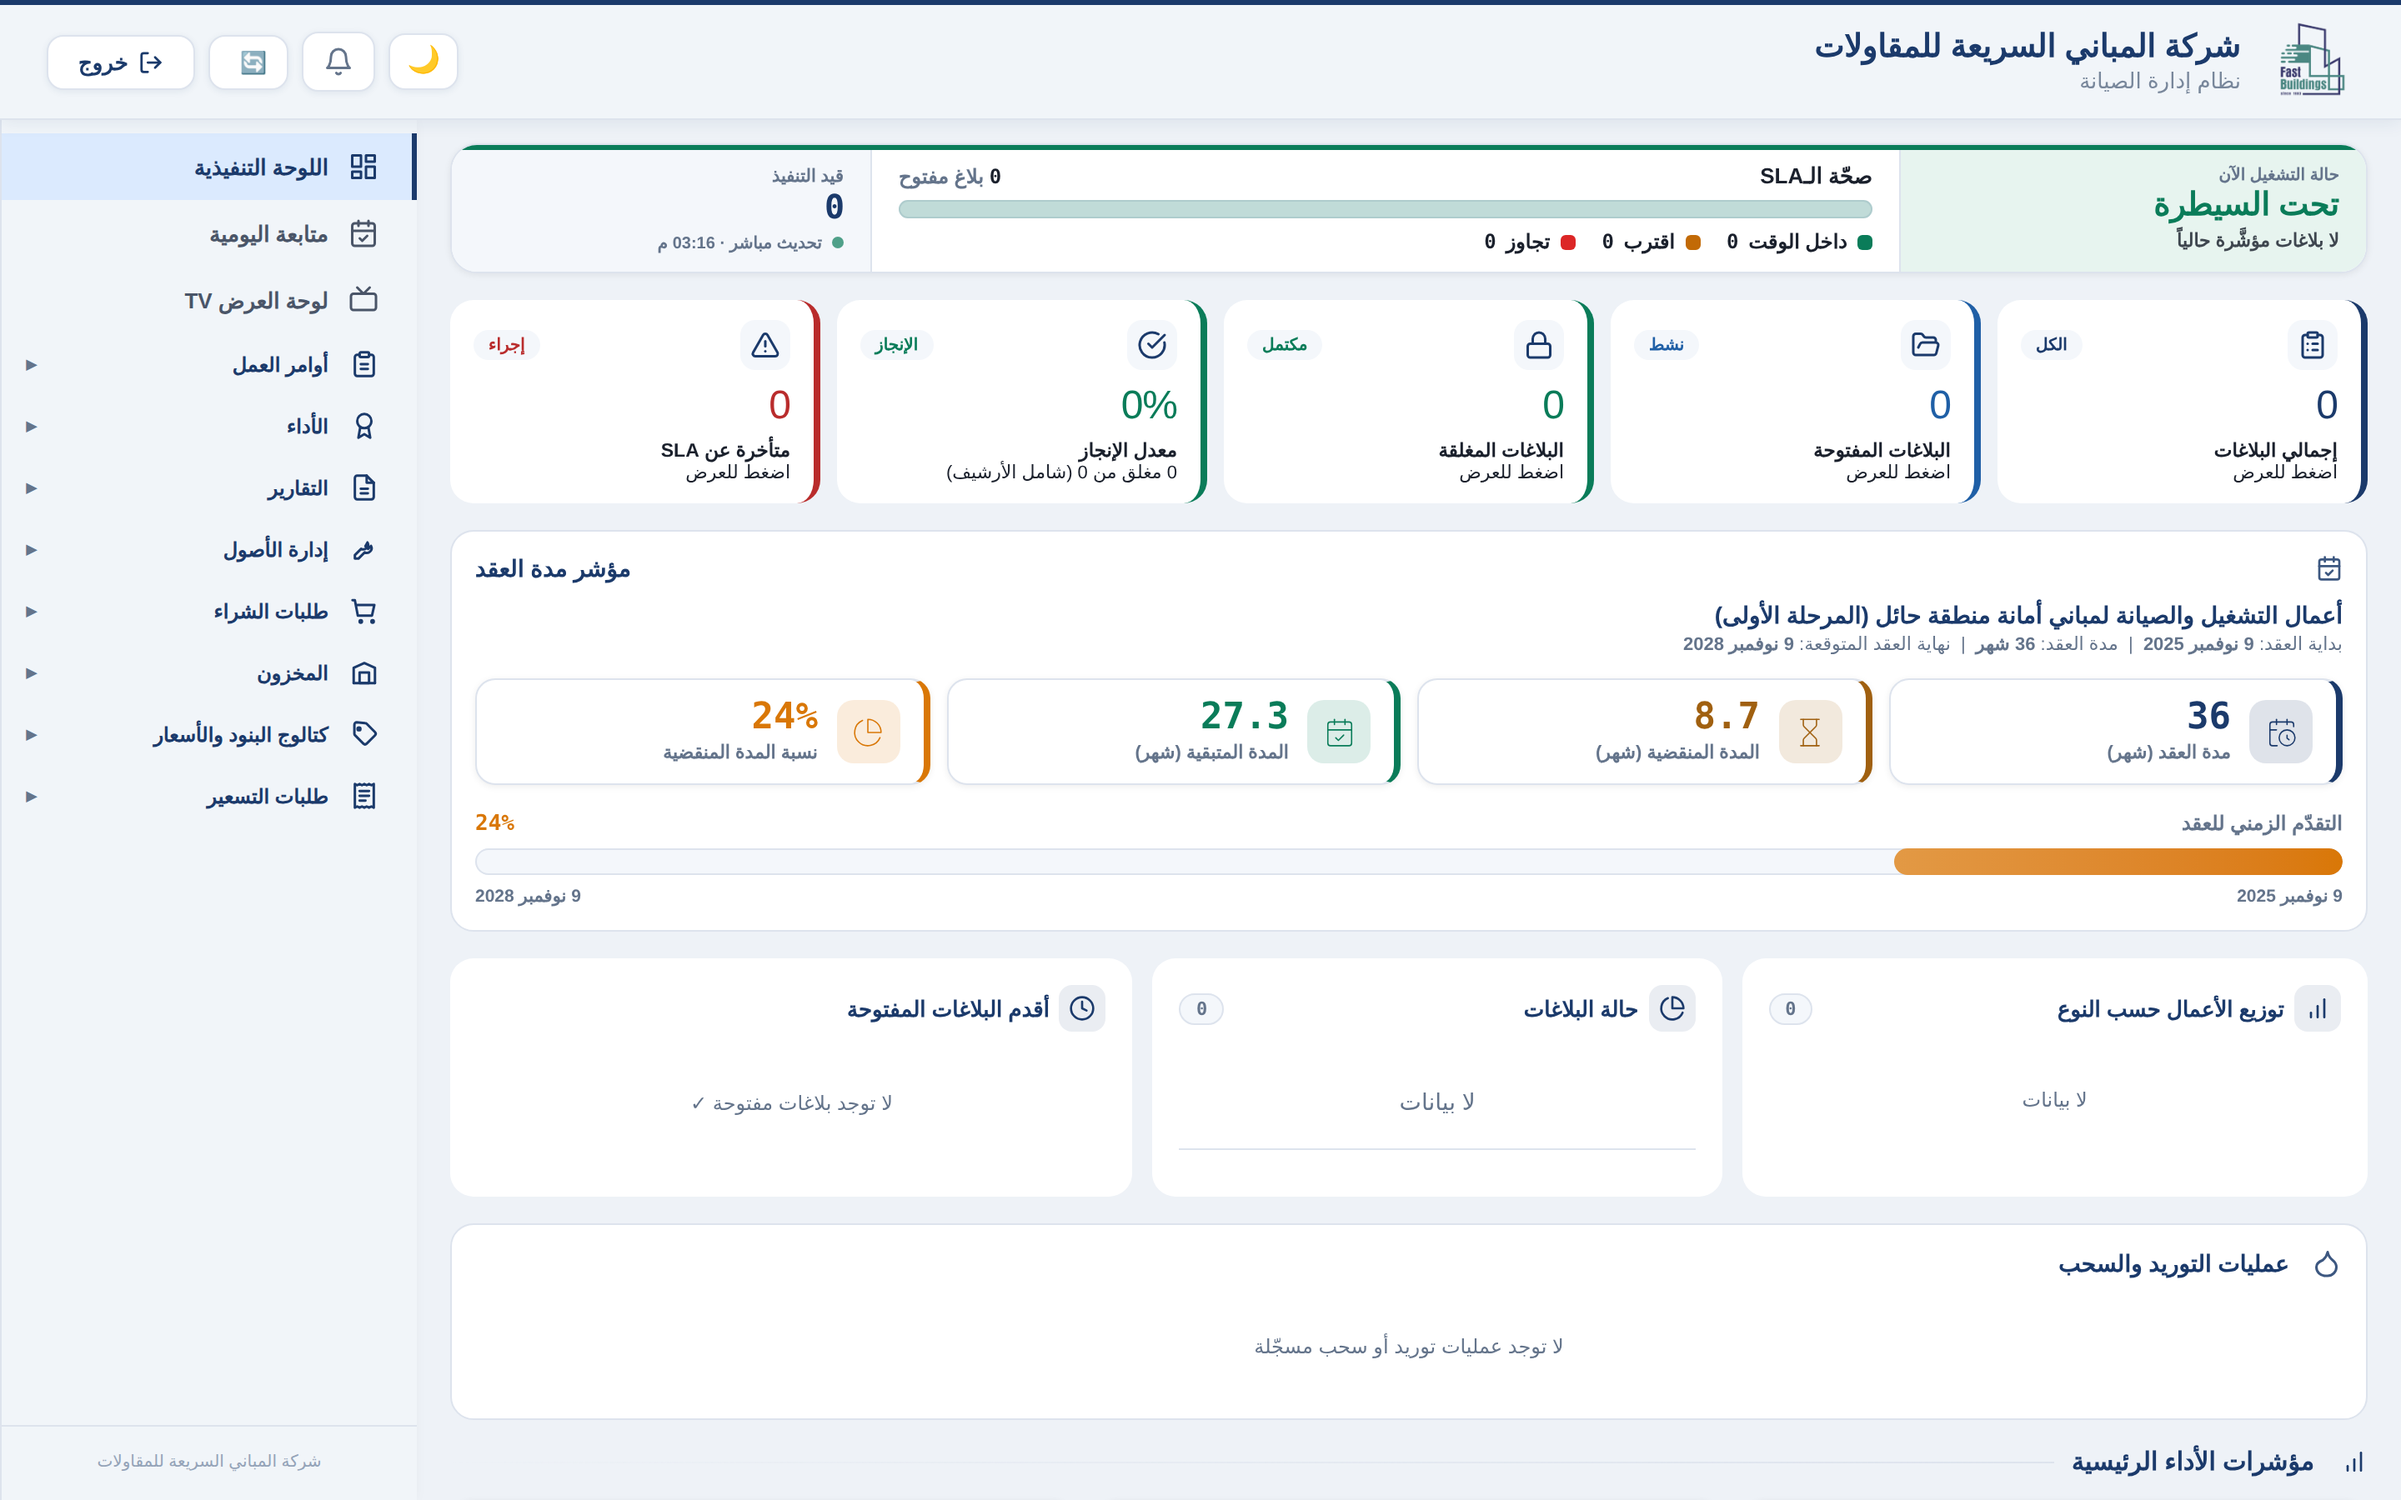
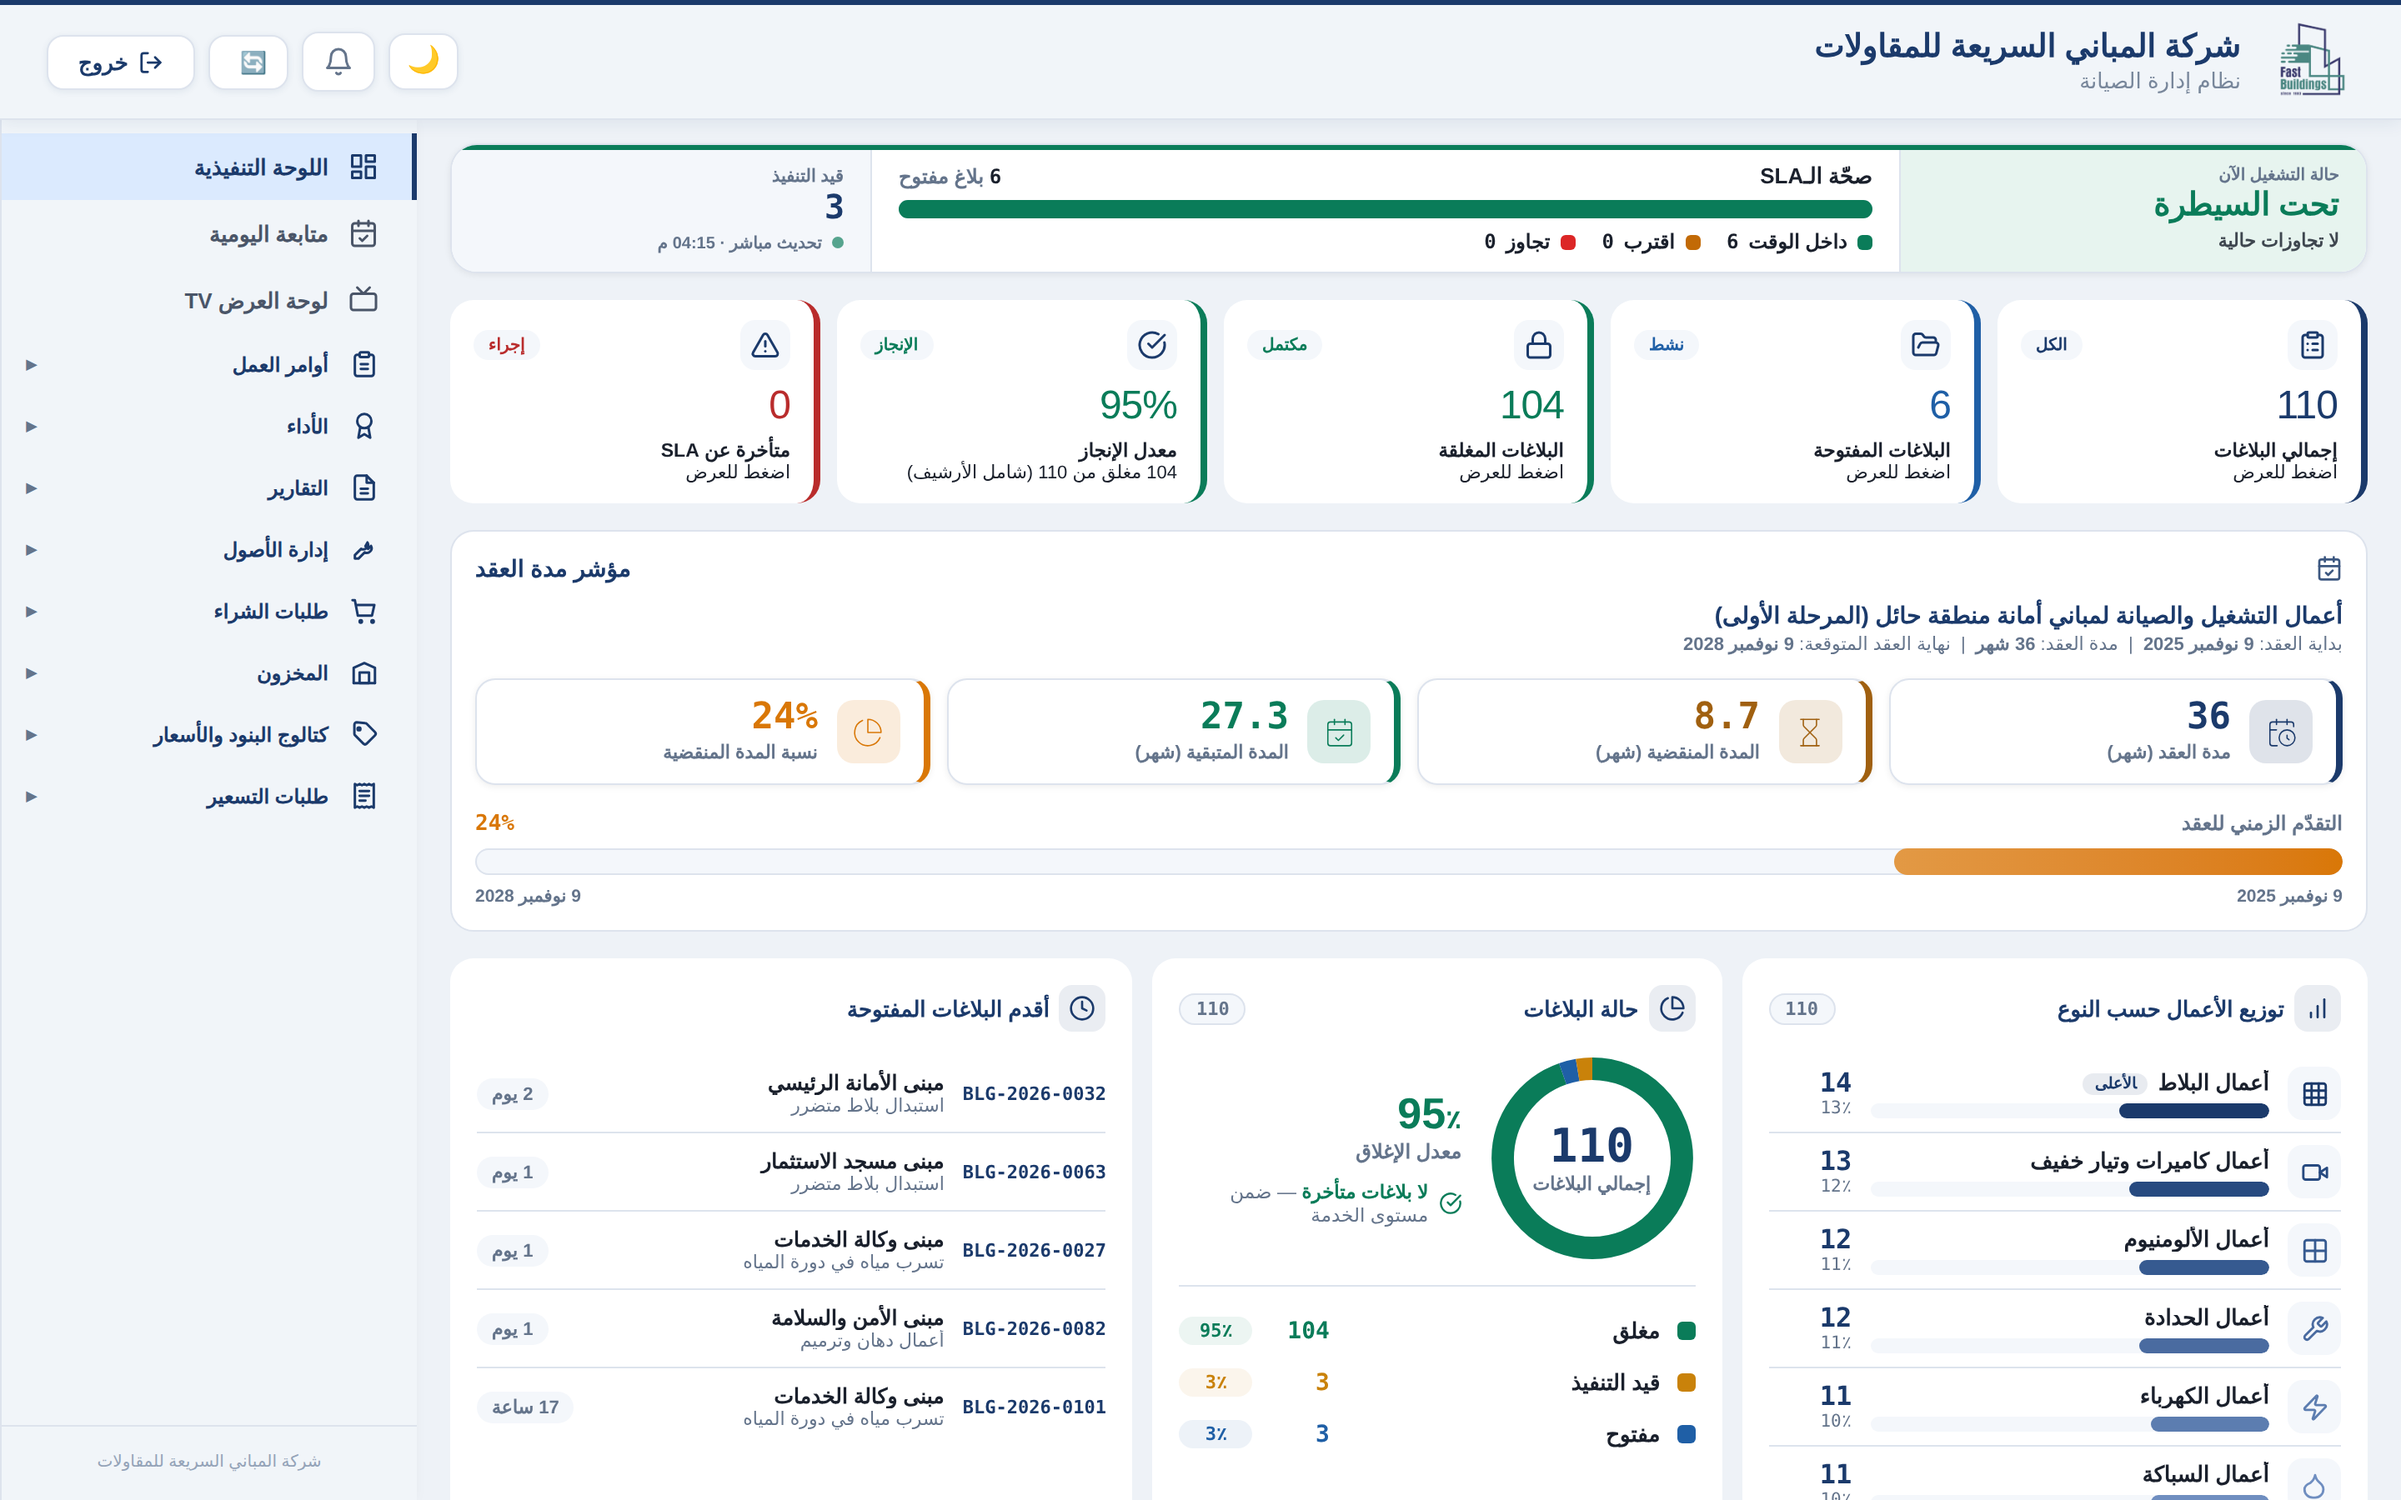
ملء لقطات النظام ببيانات عرض توضيحية
- دالة SEED_DEMO_DATA تولّد 110 بلاغاً بدالة mk() الخاصة بالنظام،
  فتطابق بنيته وتستخدم أسماء المباني وأنواع الأعمال والمشرفين من
  إعداداته الفعلية بدل شاشات فارغة بأصفار
- ضبط المنطق ليعكس تشغيلاً منضبطاً: كل بلاغ تجاوز نافذته المستهدفة
  يكون مغلقاً، فتبقى البلاغات المفتوحة داخل الزمن المستهدف واللوحة
  «تحت السيطرة» بلا تجاوزات
- توثيق في README أن هذه بيانات توضيحية لا سجلات تشغيل حقيقية

Claude-Session: https://claude.ai/code/session_01U7LCeLXLgbVRw8fqNoeA7e

diff --git a/remotion/README.md b/remotion/README.md
@@ -124,8 +124,19 @@ node scripts/capture-platform.mjs
 (لا يلمس بيانات الإنتاج إطلاقاً) ويتجاوز تسجيل الدخول، ثم يلتقط
 الصفحات المحددة في مصفوفة `SCREENS`.
 
-لاستبدال اللقطات بأخرى من نظام الإنتاج، ضع الصور بالأسماء نفسها في
-`public/platform/` دون تعديل الكود.
+### بيانات العرض
+
+قبل الالتقاط يملأ السكربت النظام بـ **بيانات عرض توضيحية** (دالة
+`SEED_DEMO_DATA`) حتى لا تظهر الشاشات فارغة. هذه البيانات تُولَّد بدالة
+`mk()` الخاصة بالنظام فتطابق بنيته، وتستخدم أسماء المباني وأنواع الأعمال
+والمشرفين من إعداداته الفعلية.
+
+**هي توضيح لعمل الواجهة وليست سجلات تشغيل حقيقية.** ضُبطت لتعكس تشغيلاً
+منضبطاً دون مبالغة: كل بلاغ تجاوز نافذته المستهدفة يكون مغلقاً، فتبقى
+البلاغات المفتوحة داخل الزمن المستهدف.
+
+لاستبدال اللقطات بأخرى من نظام الإنتاج — وهو الأفضل — ضع الصور بالأسماء
+نفسها في `public/platform/` دون تعديل الكود.
 
 ## خريطة المناطق
 
